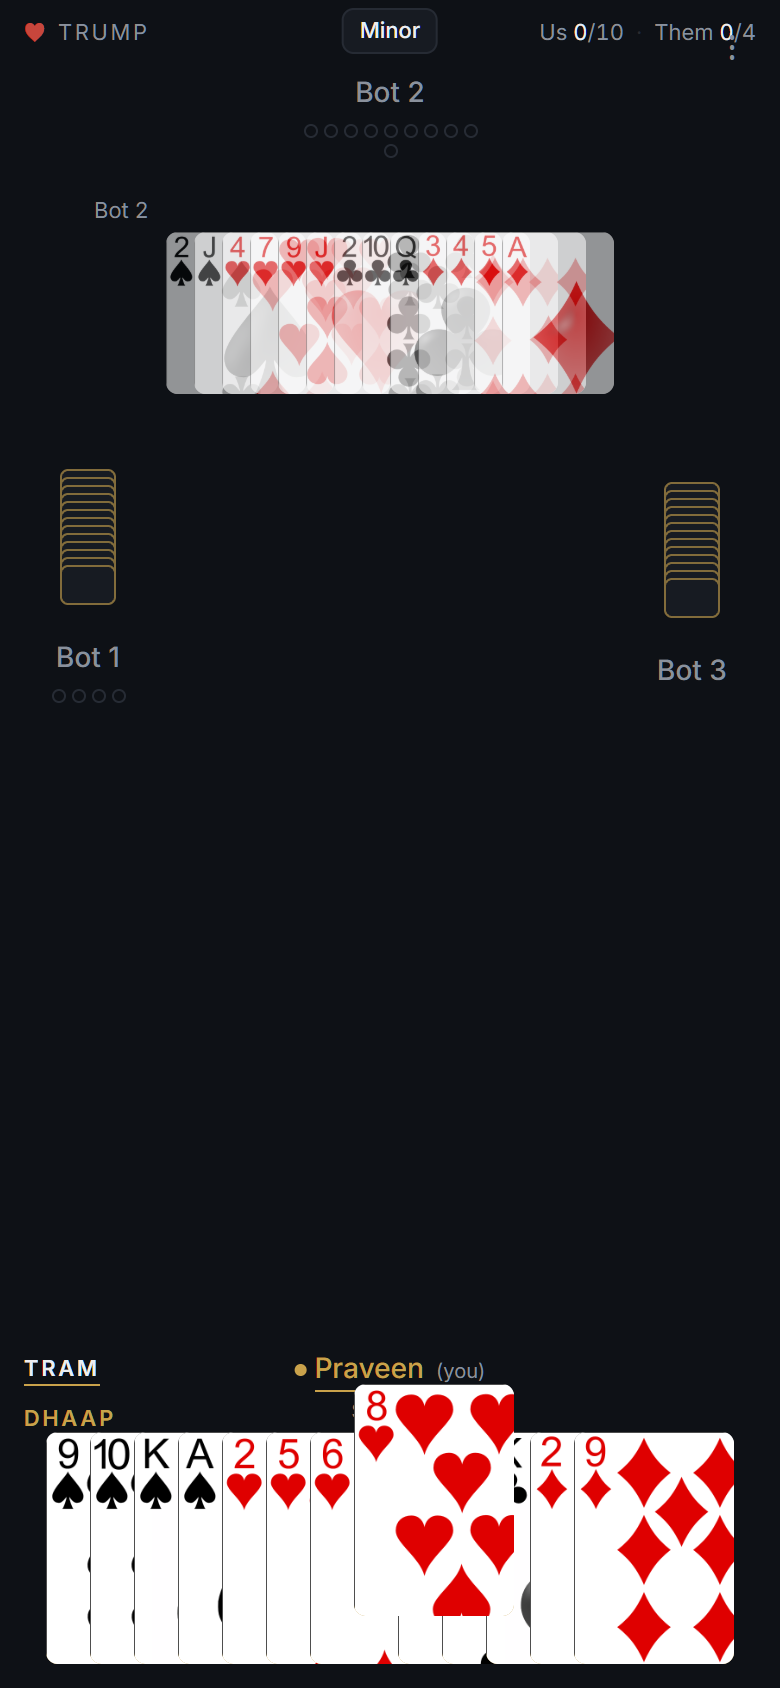
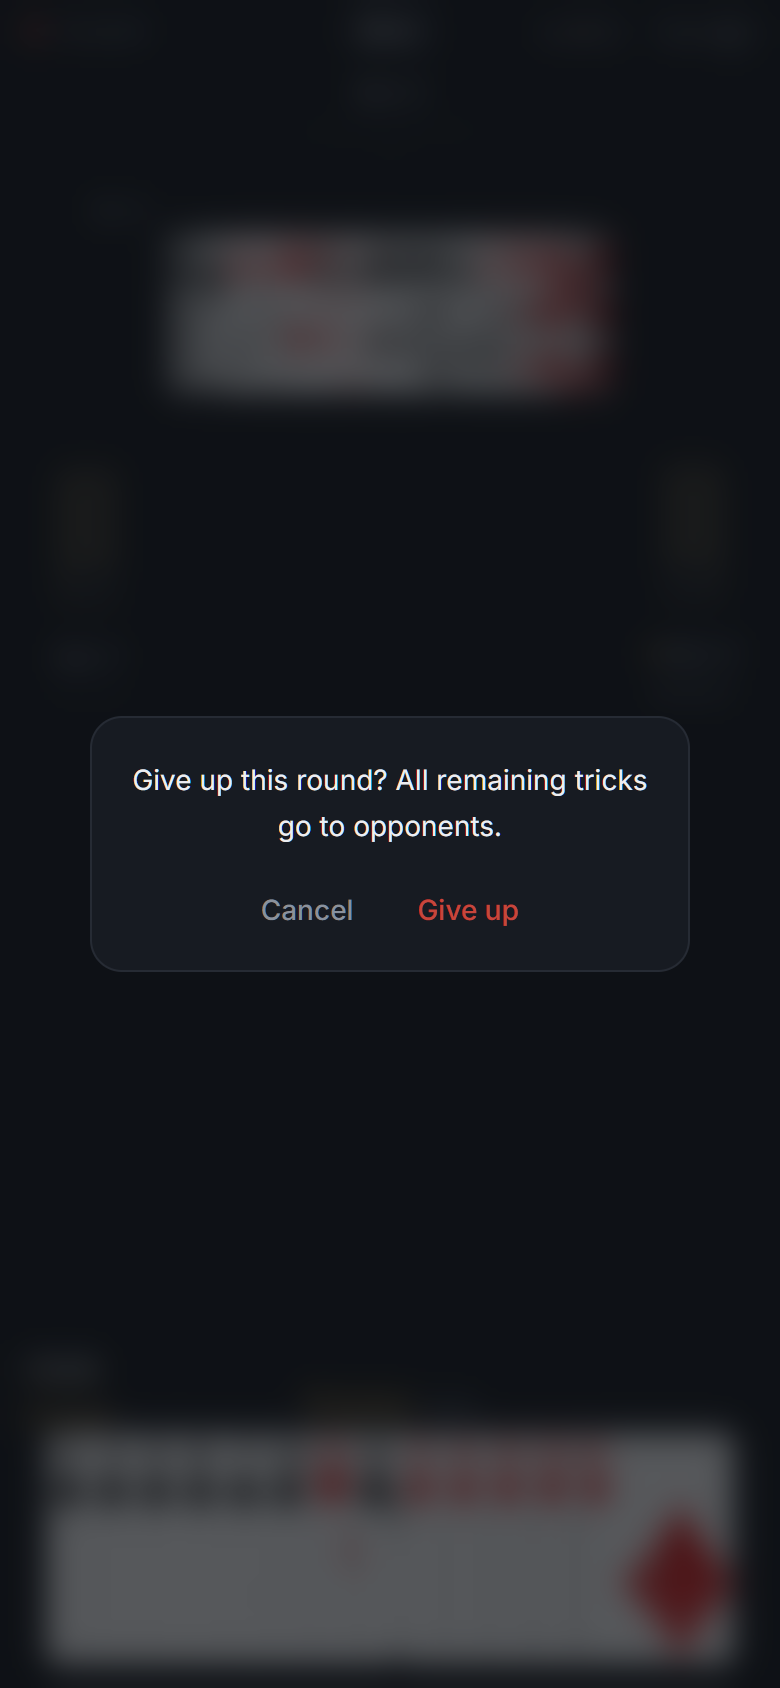
Refresh design-refresh screenshots after fixing capture + modern CSS
Root causes found by review agent were addressed:
- Modern: .aurora-bg > * specificity swallowed .absolute children; scoped
  the rule to non-absolute siblings so seats and panels position
  correctly (style.css on design/modern worktree).
- Capture script: minimal hides chrome actions behind a vellip menu,
  close buttons use "Close" text, hearts glyph matching was too strict,
  and the give-up confirmation lives in an absolute scrim (not a dialog
  role). Script now handles overflow-menu + inline-chrome variants,
  case-insensitive close, and finds the confirm button in the scrim.

All 24 PNGs (12 per direction) now have unique md5 hashes and hit the
intended state.

diff --git a/.tmp/capture.js b/.tmp/capture.js
@@ -1,0 +1,330 @@
+// Captures screenshots of Surri in a given design direction.
+//   node capture.js <outDir>
+// Assumes: dev server on http://localhost:5173 + backend on :3000.
+
+const puppeteer = require('C:\\Users\\Praveen\\AppData\\Local\\Temp\\surri-ss\\node_modules\\puppeteer');
+const fs = require('fs');
+const path = require('path');
+const crypto = require('crypto');
+
+const OUT_DIR = process.argv[2];
+const PORT = process.argv[3] || '5173';
+if (!OUT_DIR) { console.error('Usage: node capture.js <outDir> [port]'); process.exit(1); }
+fs.mkdirSync(OUT_DIR, { recursive: true });
+
+const BASE = `http://localhost:${PORT}`;
+const W = 390, H = 844;
+
+const sleep = (ms) => new Promise(r => setTimeout(r, ms));
+const md5 = (p) => crypto.createHash('md5').update(fs.readFileSync(p)).digest('hex').slice(0, 8);
+
+async function shot(page, name) {
+  const p = path.join(OUT_DIR, name + '.png');
+  await page.screenshot({ path: p });
+  console.log('  captured', name, '(' + md5(p) + ')');
+  return p;
+}
+
+// Click the first visible element whose textContent (trimmed) matches the predicate.
+// Scrolls into view first and uses native dispatch to avoid stale-handle issues.
+async function clickWhere(page, fn, { timeout = 5000, label = 'button' } = {}) {
+  const deadline = Date.now() + timeout;
+  while (Date.now() < deadline) {
+    const clicked = await page.evaluate((fnSrc) => {
+      const predicate = eval('(' + fnSrc + ')');
+      const nodes = [...document.querySelectorAll('button, a, [role="button"]')];
+      const el = nodes.find(n => {
+        if (n.disabled) return false;
+        const rect = n.getBoundingClientRect();
+        if (rect.width < 2 || rect.height < 2) return false;
+        return predicate(n);
+      });
+      if (!el) return false;
+      el.scrollIntoView({ block: 'center' });
+      el.click();
+      return true;
+    }, fn.toString());
+    if (clicked) { await sleep(200); return true; }
+    await sleep(150);
+  }
+  throw new Error(`${label} not found/clickable within ${timeout}ms`);
+}
+
+// These predicates get stringified and eval'd inside page.evaluate, so the
+// regex or string has to be INLINE in the returned function body — no closure
+// references across the page-context boundary.
+const byText = (re) => {
+  const src = re.source.replace(/`/g, '\\`');
+  const flags = re.flags;
+  return new Function('el', `return (new RegExp(\`${src}\`, "${flags}")).test(el.textContent.trim());`);
+};
+const byExactText = (s) => {
+  const esc = s.toLowerCase().replace(/`/g, '\\`');
+  return new Function('el', `return el.textContent.trim().toLowerCase() === \`${esc}\`;`);
+};
+
+async function waitText(page, re, { timeout = 6000 } = {}) {
+  const deadline = Date.now() + timeout;
+  const rx = typeof re === 'string' ? new RegExp(re, 'i') : re;
+  while (Date.now() < deadline) {
+    const found = await page.evaluate((p, flags) => {
+      const r = new RegExp(p, flags);
+      return r.test(document.body.innerText);
+    }, rx.source, rx.flags);
+    if (found) return true;
+    await sleep(150);
+  }
+  return false;
+}
+
+async function inDialog(page, fn) {
+  // find within [role="dialog"], aria-modal, or a last-rendered fixed overlay
+  return await page.evaluate((fnSrc) => {
+    const predicate = eval('(' + fnSrc + ')');
+    // Prefer explicit dialogs
+    const dialogs = [...document.querySelectorAll('[role="dialog"], [aria-modal="true"]')];
+    let root = dialogs[dialogs.length - 1];
+    if (!root) {
+      // heuristic: find outermost fixed-positioned container that has >300px height and is in the top-layer
+      const fixeds = [...document.querySelectorAll('*')].filter(n => {
+        const cs = getComputedStyle(n);
+        return cs.position === 'fixed' && n.getBoundingClientRect().height > 200;
+      });
+      root = fixeds[fixeds.length - 1];
+    }
+    if (!root) return false;
+    const btns = [...root.querySelectorAll('button, a, [role="button"]')];
+    const el = btns.find(b => !b.disabled && predicate(b));
+    if (!el) return false;
+    el.click();
+    return true;
+  }, fn.toString());
+}
+
+(async () => {
+  const browser = await puppeteer.launch({
+    headless: 'new',
+    defaultViewport: { width: W, height: H, deviceScaleFactor: 2 },
+    args: ['--no-sandbox']
+  });
+  const page = await browser.newPage();
+  page.on('console', msg => { if (msg.type() === 'error') console.log('  [err]', msg.text().slice(0, 120)); });
+
+  try {
+    // Pre-seed name so openCreateSheet doesn't silently no-op
+    await page.goto(BASE, { waitUntil: 'networkidle2' });
+    await page.evaluate(() => localStorage.setItem('surri_name', 'Praveen'));
+    await page.reload({ waitUntil: 'networkidle2' });
+    await sleep(700);
+
+    // 01 — Lobby
+    await shot(page, '01-lobby');
+
+    // 02 — Bot count / new-room sheet
+    await clickWhere(page, byText(/create room/i), { label: 'Create Room' });
+    await sleep(500);
+    await shot(page, '02-bot-count');
+
+    // 03 — Waiting room (pick 3 bots, start room)
+    await clickWhere(page, byExactText('3'), { timeout: 3000, label: '3 bots' }).catch(() => {});
+    await sleep(250);
+    await clickWhere(page, byText(/start room/i), { label: 'Start Room' });
+    if (!await waitText(page, /room code/i, { timeout: 8000 })) console.log('  [warn] room code text not seen');
+    await sleep(700);
+    await shot(page, '03-waiting-room');
+
+    // 04 — Bidding (your turn)
+    await clickWhere(page, byText(/start game/i), { label: 'Start Game' });
+    if (!await waitText(page, /your turn to bid/i, { timeout: 15000 })) console.log('  [warn] your turn text not seen');
+    await sleep(500);
+    await shot(page, '04-bidding-your-turn');
+
+    // 05 — Support received
+    await clickWhere(page, byText(/^ask partner$/i), { label: 'Ask Partner' }).catch(() => {});
+    if (!await waitText(page, /says|full|major|minor/i, { timeout: 5000 })) console.log('  [warn] support response not seen');
+    await sleep(400);
+    await shot(page, '05-bidding-support');
+
+    // 06 — Suit selected — heart is one of the 4 suit pickers. Match any button
+    // whose trimmed text contains the heart glyph (minimal shows ♥ directly, modern wraps it).
+    const heartClicked = await page.evaluate(() => {
+      const btns = [...document.querySelectorAll('button')].filter(b => {
+        const t = b.textContent.trim();
+        const r = b.getBoundingClientRect();
+        return t.includes('\u2665') && t.length <= 4 && r.width > 0 && r.height > 0;
+      });
+      if (btns.length) { btns[0].scrollIntoView({ block: 'center' }); btns[0].click(); return true; }
+      return false;
+    });
+    if (!heartClicked) console.log('  [warn] heart suit button not clicked');
+    await sleep(400);
+    await shot(page, '06-bidding-suit-selected');
+
+    // 07 — Partner reveal (confirm bid)
+    await clickWhere(page, byText(/^confirm/i), { label: 'Confirm Bid' }).catch(async () => {
+      await clickWhere(page, byText(/confirm.*bid|bid.*confirm/i), { label: 'Confirm Bid (fuzzy)' });
+    });
+    await waitText(page, /partner reveal|increase bid|you bid/i, { timeout: 6000 });
+    await sleep(500);
+    await shot(page, '07-partner-reveal');
+
+    // 08 — Playing — your turn. The partner-reveal CTA is "START ▶" (modern) or
+    // "Start play" (minimal). Match anything that starts with "start" case-insensitively.
+    const startClicked = await page.evaluate(() => {
+      const candidates = [...document.querySelectorAll('button')].filter(b => {
+        const t = b.textContent.trim().toLowerCase();
+        const r = b.getBoundingClientRect();
+        return r.width > 0 && r.height > 0 && /^start\b/.test(t);
+      });
+      if (candidates.length) { candidates[0].scrollIntoView({ block: 'center' }); candidates[0].click(); return true; }
+      return false;
+    });
+    if (!startClicked) console.log('  [warn] Start button (partner reveal) not clicked');
+    if (!await waitText(page, /your turn|TRAM|dhaap/i, { timeout: 6000 })) console.log('  [warn] playing state not seen');
+    await sleep(800);
+    await shot(page, '08-playing-your-turn');
+
+    // Helper: some designs hide chrome actions behind a ⋮ overflow menu.
+    // Try to open it, ignore failure (modern keeps actions inline).
+    const openOverflowMenu = async () => {
+      return await page.evaluate(() => {
+        const btns = [...document.querySelectorAll('button')].filter(b => {
+          const t = b.textContent.trim();
+          const r = b.getBoundingClientRect();
+          // vellip (⋮ U+22EE) or its glyph-font equivalent
+          return (t === '\u22EE' || t === '⋮' || t === '·') && r.width > 0 && r.height > 0;
+        });
+        if (btns.length) { btns[0].click(); return true; }
+        return false;
+      });
+    };
+
+    // 09 — Help overlay
+    // strategy: open overflow menu → click "How to play"; fallback: click "?" FAB.
+    let helpOpened = false;
+    if (await openOverflowMenu()) {
+      await sleep(200);
+      await page.evaluate(() => {
+        const items = [...document.querySelectorAll('button')].filter(b => /how to play/i.test(b.textContent.trim()));
+        if (items.length) items[0].click();
+      });
+      helpOpened = await waitText(page, /how to play/i, { timeout: 4000 });
+    }
+    if (!helpOpened) {
+      await page.evaluate(() => {
+        const btns = [...document.querySelectorAll('button')].filter(b => {
+          const t = b.textContent.trim();
+          const r = b.getBoundingClientRect();
+          return t === '?' && r.width > 4 && r.height > 4;
+        });
+        if (btns.length) btns[0].click();
+      });
+      helpOpened = await waitText(page, /how to play/i, { timeout: 3000 });
+    }
+    if (!helpOpened) console.log('  [warn] help overlay did not open');
+    await sleep(500);
+    await shot(page, '09-help-modal');
+    // close help — try matching Close/✕/X text on any visible button; fall back to Escape
+    if (helpOpened) {
+      const closed = await page.evaluate(() => {
+        const btns = [...document.querySelectorAll('button')].filter(b => {
+          const t = b.textContent.trim();
+          const r = b.getBoundingClientRect();
+          return r.width > 0 && r.height > 0 && /^(close|[\u2715\u00D7\u2716xX])$/i.test(t);
+        });
+        if (btns.length) { btns[btns.length - 1].click(); return true; }
+        return false;
+      });
+      if (!closed) await page.keyboard.press('Escape');
+      await sleep(500);
+      // verify the overlay actually closed
+      const stillOpen = await waitText(page, /how to play/i, { timeout: 500 });
+      if (stillOpen) {
+        await page.keyboard.press('Escape');
+        await sleep(300);
+      }
+    }
+
+    // 10 — Report Issue modal
+    let issueOpened = false;
+    if (await openOverflowMenu()) {
+      await sleep(200);
+      await page.evaluate(() => {
+        const items = [...document.querySelectorAll('button')].filter(b => /report an issue|report issue/i.test(b.textContent.trim()));
+        if (items.length) items[0].click();
+      });
+      issueOpened = await waitText(page, /report issue|describe the issue/i, { timeout: 4000 });
+    }
+    if (!issueOpened) {
+      await page.evaluate(() => {
+        const btns = [...document.querySelectorAll('button')].filter(b => {
+          const t = b.textContent.trim().toLowerCase();
+          const r = b.getBoundingClientRect();
+          return (t === 'issue' || t.endsWith(' issue')) && !t.includes('submit') && r.width > 0 && r.height > 0;
+        });
+        if (btns.length) btns[0].click();
+      });
+      issueOpened = await waitText(page, /report issue|describe the issue/i, { timeout: 3000 });
+    }
+    if (!issueOpened) console.log('  [warn] issue modal did not open');
+    await sleep(500);
+    await shot(page, '10-report-issue');
+    if (issueOpened) {
+      await inDialog(page, byText(/^cancel$/i));
+      await sleep(400);
+    }
+
+    // 11 — Give Up confirmation dialog
+    let giveUpOpened = false;
+    if (await openOverflowMenu()) {
+      await sleep(200);
+      await page.evaluate(() => {
+        const items = [...document.querySelectorAll('button')].filter(b => /give up this round|give up/i.test(b.textContent.trim()));
+        if (items.length) items[0].click();
+      });
+      giveUpOpened = await waitText(page, /give up this round|remaining tricks|all remaining/i, { timeout: 4000 });
+    }
+    if (!giveUpOpened) {
+      await page.evaluate(() => {
+        const btns = [...document.querySelectorAll('button')].filter(b => {
+          const t = b.textContent.trim().toLowerCase();
+          const r = b.getBoundingClientRect();
+          return t === 'give up' && r.width > 0 && r.height > 0;
+        });
+        if (btns.length) btns[0].click();
+      });
+      giveUpOpened = await waitText(page, /give up this round|remaining tricks|all remaining/i, { timeout: 3000 });
+    }
+    if (!giveUpOpened) console.log('  [warn] give up dialog did not open');
+    await sleep(400);
+    await shot(page, '11-give-up-confirm');
+
+    // 12 — Round summary (confirm give up inside dialog)
+    if (giveUpOpened) {
+      await page.evaluate(() => {
+        // After dialog opens, there should be exactly one visible "Give up" button (the confirm).
+        // In some designs it coexists with the chrome button — prefer the one with a red/destructive colour.
+        const candidates = [...document.querySelectorAll('button')].filter(b => {
+          const t = b.textContent.trim().toLowerCase();
+          const r = b.getBoundingClientRect();
+          return /^give up$/.test(t) && r.width > 0 && r.height > 0;
+        });
+        // The dialog-confirm is later in the DOM than the chrome trigger.
+        const confirm = candidates[candidates.length - 1];
+        if (confirm) confirm.click();
+      });
+    }
+    if (!await waitText(page, /round lost|round won|you lost|you won|next round|score change|round summary/i, { timeout: 8000 })) {
+      console.log('  [warn] round summary not seen');
+    }
+    await sleep(1200);
+    await shot(page, '12-round-summary');
+
+    console.log('done.');
+  } catch (e) {
+    console.error('FAILED:', e.message);
+    await shot(page, 'ERROR').catch(() => {});
+  } finally {
+    await browser.close();
+  }
+})();
